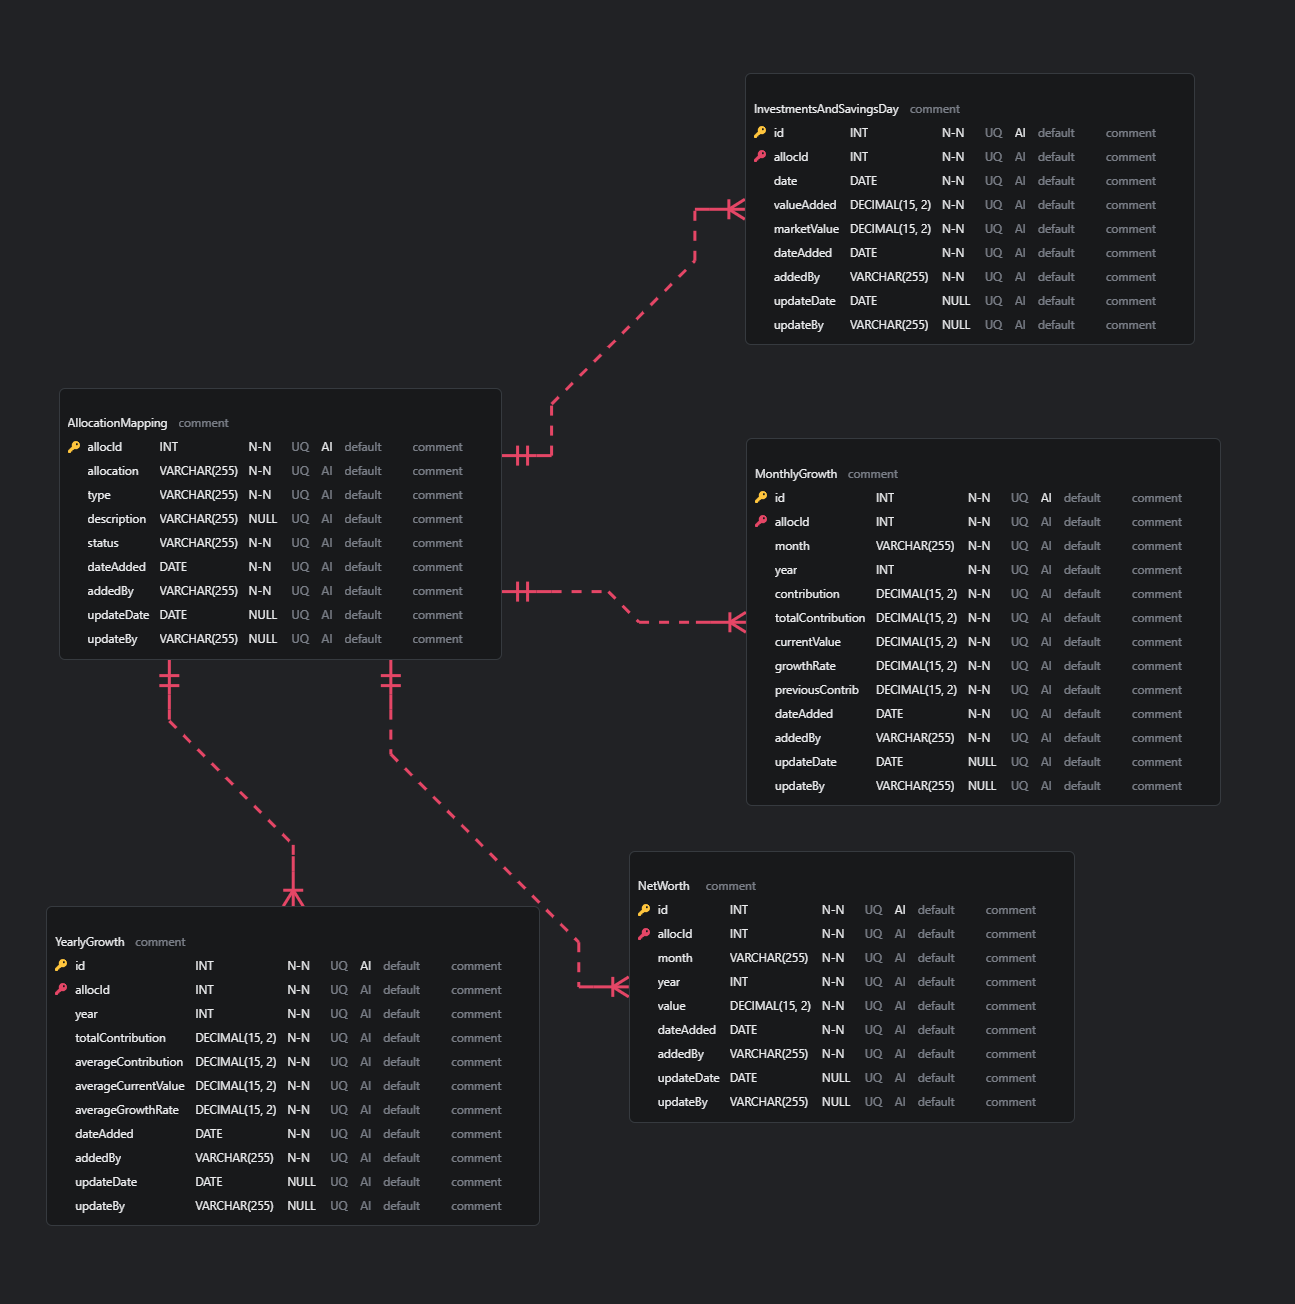
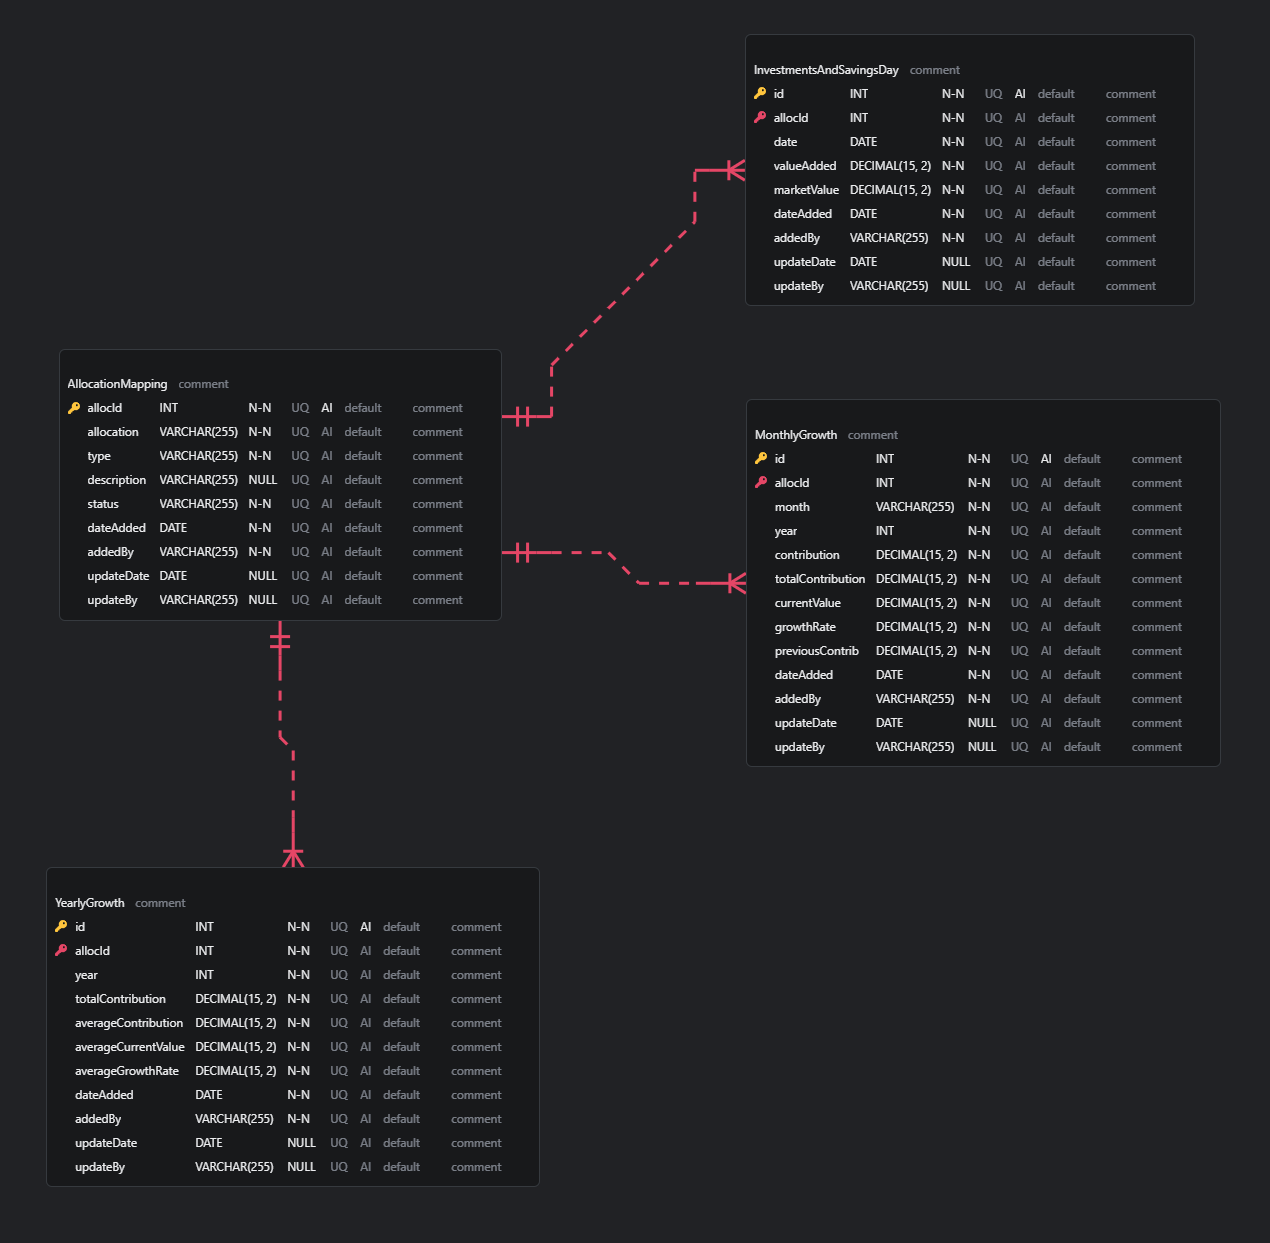
fix: networth table

diff --git a/README.md b/README.md
@@ -48,6 +48,10 @@ The database module is designed to:
 
 ![ERD](erd/image/pfm-want-related.png)
 
+## ERD - Networth Table
+
+![ERD](erd/image/pfm-networth-related.png)
+
 ## ERD - User Auth Related Tables
 
 ![ERD](erd/image/pfm-user-related.png)
